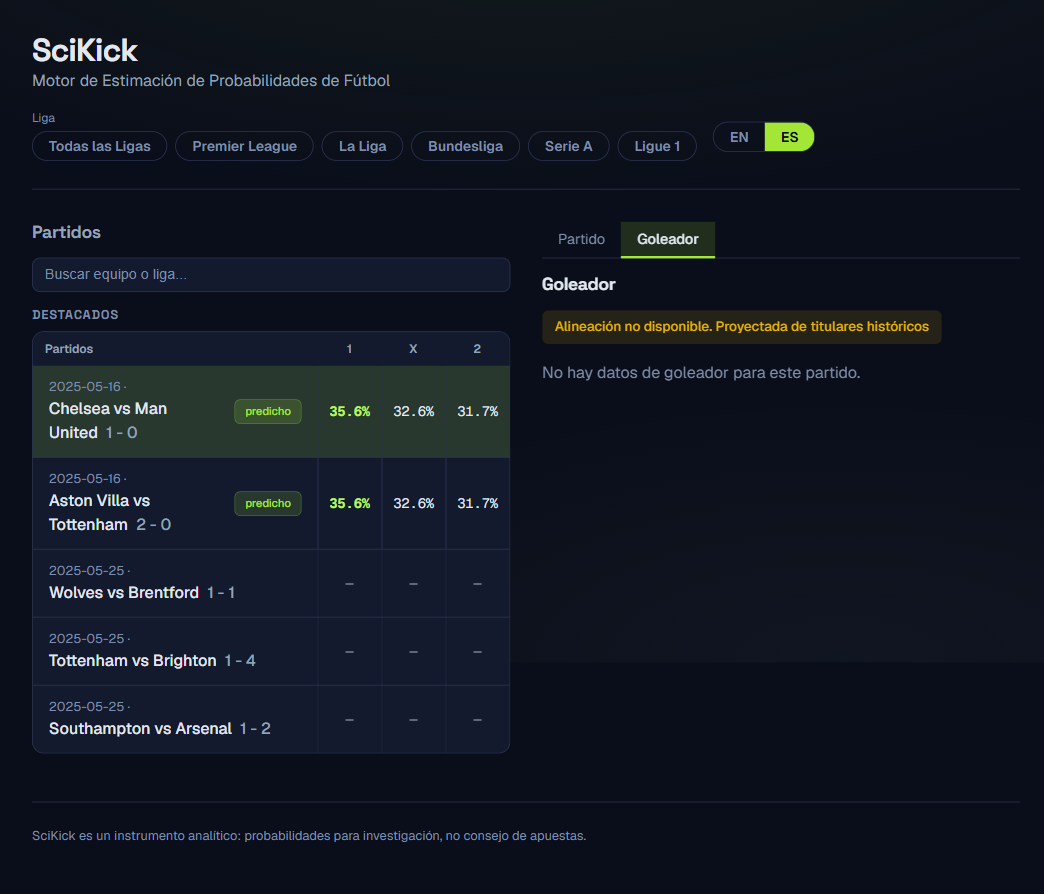
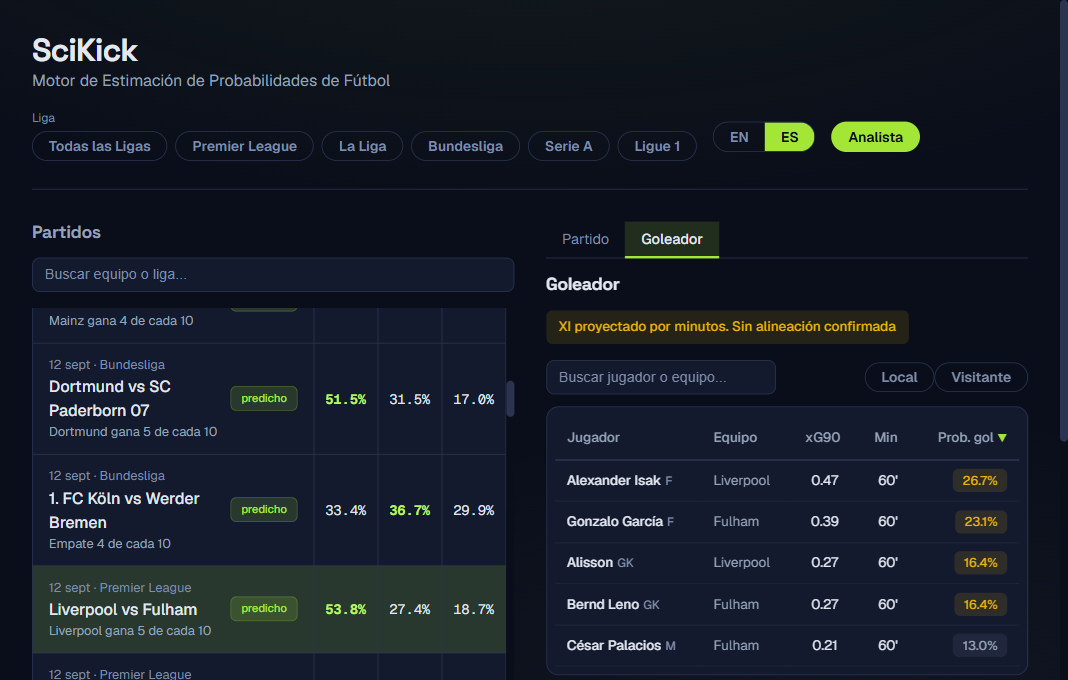
docs: rewrite README to match current system, refresh screenshots

diff --git a/README.md b/README.md
@@ -1,45 +1,39 @@
 # SciKick
 
-**Calibrated football probability estimation with classical ML** — LightGBM ensembles + an in-house Dixon-Coles implementation.
+**Upcoming football matches with honest, team-specific probabilities** — a per-team Dixon-Coles model blended with a LightGBM ensemble, served with bookmaker odds comparison and an anytime-goalscorer view.
 
-SciKick is an **analytical instrument, not a betting tool**. It converts match history into honest, well-calibrated probability estimates across ~70 markets. Every number is auditable, from input features to calibration curves.
+SciKick is an **analytical instrument, not a betting tool**. It answers "who wins this weekend, and is the bookmaker price fair?" in plain fan language, with analyst detail one toggle away.
 
-![CI](https://github.com/Pa004/scikick/actions/workflows/ci.yml/badge.svg)
+![Backend CI](https://github.com/Pa004/scikick/actions/workflows/ci-backend.yml/badge.svg)
+![Frontend CI](https://github.com/Pa004/scikick/actions/workflows/ci-frontend.yml/badge.svg)
 
-![SciKick fixtures grid](docs/screenshots/fixtures.png)
+![SciKick fixtures feed](docs/screenshots/fixtures.png)
 
 ## What it does
 
-- **Honest probabilities**: every estimate is calibrated (isotonic regression, Platt below 500 samples) and reported with Brier scores, so a "60%" means 60%.
-- **~70 markets**: 1X2, over/under, BTTS, handicaps, exact score, half-time, corners, cards, combined markets, plus player-level anytime scorer.
-- **Auditable by design**: model agreement, top SHAP-style features, and reliability curves ship with every prediction.
-- **Runs anywhere**: CPU-only Python backend + SQLite, dependency-free React frontend. No GPU, no cloud required.
+- **Every upcoming match, 5 leagues**: Premier League, La Liga, Bundesliga, Serie A, Ligue 1 — from today through end of season, nearest first.
+- **Verdicts in plain language**: "Liverpool win 5 in 10", human dates ("Today", "12 Sep"), no codes unless analyst mode is on.
+- **Team-specific probabilities**: per-team Dixon-Coles strengths (not league averages) with shrinkage for promoted teams with no history.
+- **Value check**: best available bookmaker odds compared against the model — expected value and quarter-Kelly stake per outcome, or paste your own bookmaker's odds.
+- **Goalscorer tab**: anytime probabilities from Understat xG90 with a minutes-projected XI when lineups are unconfirmed (labeled as such).
+- **Match center**: real form (last 5), head-to-head record, and momentum from played matches.
 
 ## How it works
 
 ```
-CSVs / APIs ──▶ ingestion ──▶ features ──▶ models ──▶ calibration ──▶ API ──▶ UI
-football-data   adapters      Elo, form,   3 motors    isotonic /    FastAPI   React
-.co.uk,           (Understat,  xG, match   + scorer    Platt         + SQLite  dashboard
-Understat,        API-Football) features    module      auto-recal
-API-Football
+football-data.org ──▶ future fixtures ──┐
+football-data.co.uk ─▶ history (CSVs) ──┤──▶ sync ──▶ features ──▶ models ──▶ API ──▶ UI
+Understat ──────────▶ player xG ────────┤         Elo, form,   per-team DC +
+The Odds API ───────▶ bookmaker odds ───┘         xG           LightGBM blend
 ```
 
-- **Motor 1** — Dixon-Coles score matrix (own `scipy.optimize` implementation): 1X2, double chance, over/under, BTTS, handicaps, exact score, goal bands, odd/even, clean sheet, win to nil, draw no bet.
-- **Motor 2** — half-time + count models: HT/FT, HT 1X2, HT over/under, corners and cards, combined markets.
-- **Motor 4** — rare events (penalty, own goal) as league-average constants.
-- **Goalscorer** — player-level anytime scorer from Understat xG90, position shrink, and minutes estimates; optional API-Football lineups.
-- **Retraining** — two levels: `light` (weekly, tuned params) and `complete` (monthly or on degradation: full Optuna tuning + blend-weight recalibration, auto-triggered past 15% Brier drift). A standalone APScheduler runs daily sync and model jobs.
+- **Ingestion** (`app/ingestion/`): football-data.org (scheduled fixtures, primary), football-data.co.uk CSVs (history), Understat (player xG), The Odds API (1 credit/league/day, best EU price stored). API-Football code is dormant: its free tier covers seasons 2022–2024 only, so resolvers stay off behind `LINEUPS_ENABLED=false`.
+- **Models** (`app/models/`): per-team Dixon-Coles strengths persisted per run (`dc_teams`), shrinkage prior (`k=8` games) for teams without history, LightGBM ensemble, isotonic calibration. Walkforward Brier (Sep 2026 retrain): E0 0.596, SP1 0.527, D1 0.470, I1 0.626, F1 0.603 — small test sets (27–37 matches), judge trends over cycles.
+- **Scorer** (`app/players/`): Understat xG90 with position shrinkage and a dynamic minutes gate that scales early season; top-11-by-minutes projected XI when unconfirmed.
+- **API** (`app/api/`): FastAPI + SQLite. `GET /fixtures` (`league=all|E0|…`, upcoming first), `GET /predict/{id}`, `POST /value` (manual or stored odds), `GET /context` (form + H2H), `GET /predict/scorer/{id}`, stats + calibration, `POST /refresh` and `POST /resolve` (token auth).
+- **UI** (`frontend/`): React + TypeScript, EN/ES, dark theme, WCAG-aware (real tabs, labeled tables, chart data tables, 44px touch targets). No runtime dependencies beyond React + Recharts. `VITE_API_URL` points at any backend.
 
 ## The interface
-
-A dark, data-dense dashboard (EN/ES, keyboard-operable, WCAG-aware) built with React + TypeScript + Recharts and zero animation dependencies:
-
-- **Bookmaker-style fixtures grid** with 1X2 probability columns, inline search, league tabs, and featured rails.
-- **Probability/decimal toggle** (display format only) with movement indicators against last-seen values.
-- **Match center**: form badges, head-to-head, momentum bars, and a display-only model combo card.
-- **Pick of the day** and a **calibration trust block** (Brier reading, reliability count, sample size).
-- **Sortable scorer grid** in the player-props tradition.
 
 ![SciKick dashboard](docs/screenshots/dashboard.png)
 
@@ -49,47 +43,54 @@ A dark, data-dense dashboard (EN/ES, keyboard-operable, WCAG-aware) built with R
 
 ## Engineering highlights
 
-- **Reproducible pipeline**: Elo ratings, team form, xG enrichment, and score matrices versioned per model run (`app/models/runs/`).
-- **Race-safe UI**: request-id guards on every fetch; localStorage-persisted preferences (locale, display mode, last-seen snapshots).
-- **Tested**: 41 backend test files (pytest) + 60 frontend tests across 11 files (vitest); `oxlint` + `tsc` + `vite build` green on every PR via CI.
-- **Self-hosted fonts, CSS design tokens, tabular numerals for data** (`frontend/src/index.css`).
+- **Reproducible runs**: every train persists params, per-team strengths, metrics (`data/runs/<league>/`); the loader serves the newest by mtime; tests never pollute it (`persist_run=False`).
+- **Honest failures**: adapters log quota/plan blocks, endpoints explain causes (no silent `[]`), refresh reports per-season validation.
+- **Tested**: 47 backend test files (pytest) + 92 frontend tests across 16 files (vitest); `oxlint` + `vite build` green on every PR via split CI workflows.
+- **CPU-only, free-tier**: SQLite, no GPU, all data sources free. Full monthly ops in `docs/retrain.md`.
 
 ## Quality metrics
 
 | Area | Status |
 |---|---|
-| Backend tests | 41 files, pytest, CI green |
-| Frontend tests | 60 tests / 11 files, vitest, CI green |
-| Lint / types / build | `oxlint` clean, `tsc` strict, `vite build` OK |
-| Model accuracy / Brier | Reported per league in the dashboard trust block — retrain to reproduce (`python -m app.cli train --league E0 --mode complete`) |
+| Backend tests | 47 files, pytest, CI green |
+| Frontend tests | 92 tests / 16 files, vitest, CI green |
+| Lint / build | `oxlint` clean, `vite build` OK |
+| Model Brier | E0 0.596 · SP1 0.527 · D1 0.470 · I1 0.626 · F1 0.603 (see `docs/retrain.md`) |
 
 ## Quick start
 
-```bash
-# 1. Environment (Windows path shown; macOS/Linux use .venv/bin/activate)
+```powershell
+# 1. Environment
 python -m venv .venv
-.venv\Scripts\activate
+.\.venv\Scripts\Activate.ps1
 
 # 2. Dependencies
-pip install -r requirements.txt
-cp .env.example .env          # set SERVICE_TOKEN at minimum
+.\.venv\Scripts\python.exe -m pip install -r requirements.txt
+Copy-Item .env.example .env   # then fill in the keys below
+```
 
-# 3. Sync data (football-data.co.uk CSVs)
-python -m app.cli sync --league E0 --seasons 3
+Keys (all free tiers, no card): `FOOTBALL_DATA_ORG_KEY` (future fixtures, required), `ODDS_API_KEY` (bookmaker odds, optional — manual paste works without it), `API_FOOTBALL_KEY` (dormant unless Pro), `SERVICE_TOKEN` (for `/refresh` and `/resolve`).
 
-# 4. Train the ensemble (takes a few minutes)
-python -m app.cli train --league E0 --mode complete
+```powershell
+# 3. Sync data (all leagues, history + upcoming)
+.\.venv\Scripts\python.exe -m app.cli sync --league E0,SP1,D1,I1,F1 --seasons 3
 
-# 5. Run the API
-uvicorn app.api.main:app --reload
+# 4. Train one league (~10 min on CPU, repeat per league)
+.\.venv\Scripts\python.exe -m app.cli train --league E0
+
+# 5. Predict upcoming fixtures
+.\.venv\Scripts\python.exe -m app.cli predict --league E0
+
+# 6. Run the API (syncs automatically on startup, in background)
+.\.venv\Scripts\python.exe -m uvicorn app.api.main:app --port 8000
 ```
 
 Frontend:
 
-```bash
+```powershell
 cd frontend
 npm ci
-npm run dev      # http://localhost:5173
+npm run dev      # http://localhost:5173 (VITE_API_URL override in frontend/.env)
 ```
 
 ## Project structure
@@ -97,29 +98,30 @@ npm run dev      # http://localhost:5173
 ```
 app/
   config.py       — Settings via pydantic-settings (reads .env, singleton)
-  db/             — SQLite connection, migrations, backup
-  ingestion/      — Data adapters (football-data.co.uk, Understat, API-Football)
-  features/       — Feature engineering (Elo, form, xG, match_features table)
-  models/         — LightGBM, Dixon-Coles, blend, calibration, runs/
-  api/            — FastAPI endpoints (predict, fixtures, stats, refresh)
-  players/        — Goalscorer module (ingest, model, lineups, prediction)
-  phase2/         — HT/FT residual multiplier (Fase 2)
-  scheduler.py    — APScheduler jobs (sync, retrain, lineups)
+  db/             — SQLite connection, migrations
+  ingestion/      — adapters (football-data.org, football-data.co.uk, Understat,
+                    API-Football, The Odds API), seasons, aliases, sync, odds_sync
+  features/       — Elo, form, xG, match_features table
+  models/         — Dixon-Coles (per-team + shrinkage), LightGBM, blend,
+                    calibration, predict, value
+  api/            — FastAPI routers (fixtures, predict, scorer, value, context,
+                    stats, refresh, resolve)
+  players/        — Goalscorer (ingest, model, lineups, pipeline)
+  scheduler.py    — APScheduler definitions (sync, lineups; run manually)
 frontend/
-  src/            — React + TypeScript dashboard: components, hooks, utils, i18n
-migrations/       — numbered SQL files applied via PRAGMA user_version
+  src/            — React + TypeScript: components, hooks, utils, i18n (EN/ES)
+migrations/       — numbered SQL files applied via PRAGMA user_version (001–007)
+docs/retrain.md   — monthly ops playbook (sync, train, predict, resolve, quotas)
 ```
 
-**Core tables** (SQLite): `leagues`, `teams`, `team_aliases`, `fixtures`, `tracked` +
-`match_features` (regenerable) and player tables (`players`, `player_features`, `lineups`).
+**Core tables** (SQLite): `leagues`, `teams`, `team_aliases`, `fixtures` (+`api_football_id`), `fixture_odds`, `tracked` + `match_features` (regenerable) and player tables (`players`, `player_features`, `lineups`).
 
 ## Development
 
-```bash
-# Backend tests (pytest auto-sets ENV=test, DATABASE_PATH=:memory:)
-python -m pytest
-python -m pytest tests/unit/          # unit only
-python -m pytest -m "not slow"        # skip slow tests
+```powershell
+# Backend (conftest sets ENV=test; override keys to simulate CI without secrets)
+$env:API_FOOTBALL_KEY=""; $env:FOOTBALL_DATA_ORG_KEY=""; $env:ODDS_API_KEY=""
+.\.venv\Scripts\python.exe -m pytest tests/ -m "not slow"
 
 # Frontend
 cd frontend
@@ -128,21 +130,23 @@ npm test
 npm run build
 ```
 
-CI runs the backend suite and the frontend lint/test/build on every push and pull request (`.github/workflows/ci.yml`).
+Split CI (`.github/workflows/ci-backend.yml`, `ci-frontend.yml`) runs backend tests and frontend lint/test/build per pull request, filtered by paths.
 
 ## Known limitations
 
+- **2025/26 season history**: football-data.co.uk has not published the 2526 CSVs yet; the model trains on 22/23–24/25 until they appear (the sync window picks them up automatically).
+- **Lineups**: confirmed XIs need API-Football Pro; the scorer tab projects from minutes and says so.
+- **Early season noise**: with 3 matchdays played, edges vs bookmakers run large; calibration needs 30+ resolved predictions (`POST /resolve` biweekly).
+- **Team name display**: a few canonicals lack accents (`Espanol`, `Alaves`) — mapping artifact, fix planned.
 - **Transfer windows**: the model does not capture mid-season roster changes.
-- **LigaPro Ecuador** (Tier 4): limited feature set (no historical odds, no xG).
-- **Rare events**: per-team penalty/own-goal data is not available from the source, so league-average constants are used.
-- **In-play markets** (Motor 3): excluded — requires real-time event simulation and timestamped event data.
-- **Goalscorer**: players need ≥450 min in Understat; confirmed lineups need an API-Football key (free tier, 100 req/day shared budget).
+- **In-play**: pre-match only, no live markets.
 
 ## Roadmap
 
-- Per-team form/H2H API (client-side derivation works today from loaded fixtures).
-- Full text alternatives for charts (screen-reader data tables).
-- Non-color favorite indicator for 1X2 cells.
+- Display-name mapping for accent-less canonicals.
+- Legend for odds-movement arrows.
+- Hosted backend (frontend is Vercel-ready via `VITE_API_URL`).
+- Value alerts on the pick of the day when stored odds show +EV.
 
 ## License
 
